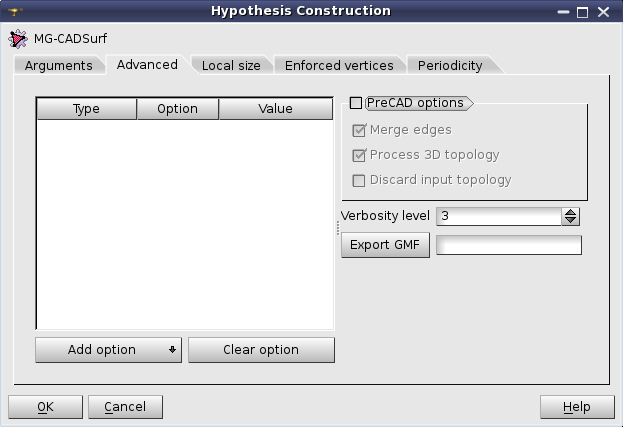
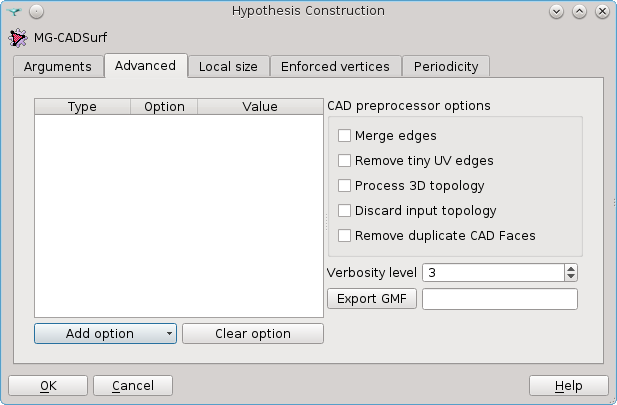
Adding the preprocessor option remove_tiny_uv_edges to the user interface. We set it to off by default in Salome so that the cleanup is done only if the user explicitly asks to. Otherwise, this option is on by default when calling CADSurf.

Changed region(s): [[0.0, 0.0, 1.0, 1.0]]

diff --git a/src/GUI/BLSURFPlugin_msg_fr.ts b/src/GUI/BLSURFPlugin_msg_fr.ts
@@ -248,11 +248,15 @@ Plus la distance est petite, plus le maillage sera proche de la surface (disponi
     </message>
     <message>
         <source>BLSURF_PRECAD_GROUP</source>
-        <translation>Options PreCAD</translation>
+        <translation>Options du préprocesseur CAO</translation>
     </message>
     <message>
         <source>BLSURF_PRECAD_MERGE_EDGES</source>
         <translation>Fusionner des arêtes</translation>
+    </message>
+    <message>
+        <source>BLSURF_PRECAD_REMOVE_TINY_UV_EDGES</source>
+        <translation>Supprime les petites arêtes UV</translation>
     </message>
     <message>
         <source>BLSURF_PRECAD_REMOVE_DUPLICATE_CAD_FACES</source>

diff --git a/src/GUI/BLSURFPlugin_msg_en.ts b/src/GUI/BLSURFPlugin_msg_en.ts
@@ -244,11 +244,15 @@ The smaller this distance is, the closer the mesh is to the exact surface (only 
     </message>
     <message>
         <source>BLSURF_PRECAD_GROUP</source>
-        <translation>PreCAD options</translation>
+        <translation>CAD preprocessor options</translation>
     </message>
     <message>
         <source>BLSURF_PRECAD_MERGE_EDGES</source>
         <translation>Merge edges</translation>
+    </message>
+    <message>
+        <source>BLSURF_PRECAD_REMOVE_TINY_UV_EDGES</source>
+        <translation>Remove tiny UV edges</translation>
     </message>
     <message>
         <source>BLSURF_PRECAD_REMOVE_DUPLICATE_CAD_FACES</source>

diff --git a/src/BLSURFPlugin/BLSURFPluginBuilder.py b/src/BLSURFPlugin/BLSURFPluginBuilder.py
@@ -194,24 +194,24 @@ class BLSURF_Algorithm(Mesh_Algorithm):
   ## To optimize merges edges.
   #  @param toMergeEdges "merge edges" flag value
   def SetPreCADMergeEdges(self, toMergeEdges=False):
-    if self.Parameters().GetTopology() != PreCAD:
-      self.SetTopology(PreCAD)
     self.Parameters().SetPreCADMergeEdges(toMergeEdges)
     pass
 
+  ## To remove tiny UV edges.
+  #  @param toRemoveTinyUVEdges "remove_tiny_uv_edges" flag value
+  def SetPreCADRemoveTinyUVEdges(self, toRemoveTinyUVEdges=False):
+    self.Parameters().SetPreCADRemoveTinyUVEdges(toRemoveTinyUVEdges)
+    pass
+
   ## To remove duplicate CAD Faces
-  #  @param toRemoveDuplicateCADFaces "merge edges" flag value
+  #  @param toRemoveDuplicateCADFaces "remove_duplicate_cad_faces" flag value
   def SetPreCADRemoveDuplicateCADFaces(self, toRemoveDuplicateCADFaces=False):
-    if self.Parameters().GetTopology() != PreCAD:
-      self.SetTopology(PreCAD)
     self.Parameters().SetPreCADRemoveDuplicateCADFaces(toRemoveDuplicateCADFaces)
     pass
 
   ## To process 3D topology.
   #  @param toProcess "PreCAD process 3D" flag value
   def SetPreCADProcess3DTopology(self, toProcess=False):
-    if self.Parameters().GetTopology() != PreCAD:
-      self.SetTopology(PreCAD)
     self.Parameters().SetPreCADProcess3DTopology(toProcess)
     pass
 
@@ -227,8 +227,6 @@ class BLSURF_Algorithm(Mesh_Algorithm):
   ## To compute topology from scratch
   #  @param toDiscardInput "discard input" flag value
   def SetPreCADDiscardInput(self, toDiscardInput=False):
-    if self.Parameters().GetTopology() != PreCAD:
-      self.SetTopology(PreCAD)
     self.Parameters().SetPreCADDiscardInput(toDiscardInput)
     pass
 
@@ -250,8 +248,6 @@ class BLSURF_Algorithm(Mesh_Algorithm):
   #  @param optionName name of the option
   #  @param optionValue value of the option
   def SetPreCADOptionValue(self, optionName, optionValue):
-    if self.Parameters().GetTopology() != PreCAD:
-      self.SetTopology(PreCAD)
     self.Parameters().SetPreCADOptionValue(optionName,optionValue)
     pass
   
@@ -266,8 +262,6 @@ class BLSURF_Algorithm(Mesh_Algorithm):
   #  @param optionName custom name of the option
   #  @param optionValue value of the option
   def AddPreCADOption(self, optionName, optionValue):
-    if self.Parameters().GetTopology() != PreCAD:
-      self.SetTopology(PreCAD)
     self.Parameters().AddPreCADOption(optionName,optionValue)
     pass
 

diff --git a/src/GUI/BLSURFPluginGUI_HypothesisCreator.h b/src/GUI/BLSURFPluginGUI_HypothesisCreator.h
@@ -169,7 +169,7 @@ typedef struct
   double  myAnisotropicRatio, myTinyEdgeLength, myBadElementAspectRatio;
   bool    myOptimizeMesh, myQuadraticMesh;
   bool    myAllowQuadrangles, mySmpsurface,mySmpedge,mySmppoint,myEnforcedVertex,myInternalEnforcedVerticesAllFaces;
-  bool    myPreCADMergeEdges, myPreCADRemoveDuplicateCADFaces, myPreCADProcess3DTopology, myPreCADDiscardInput;
+  bool    myPreCADMergeEdges, myPreCADRemoveTinyUVEdges, myPreCADRemoveDuplicateCADFaces, myPreCADProcess3DTopology, myPreCADDiscardInput;
 //   bool    myGMFFileMode;
   std::string myGMFFileName, myInternalEnforcedVerticesAllFacesGroup;
   TEnfVertexList enfVertexList;
